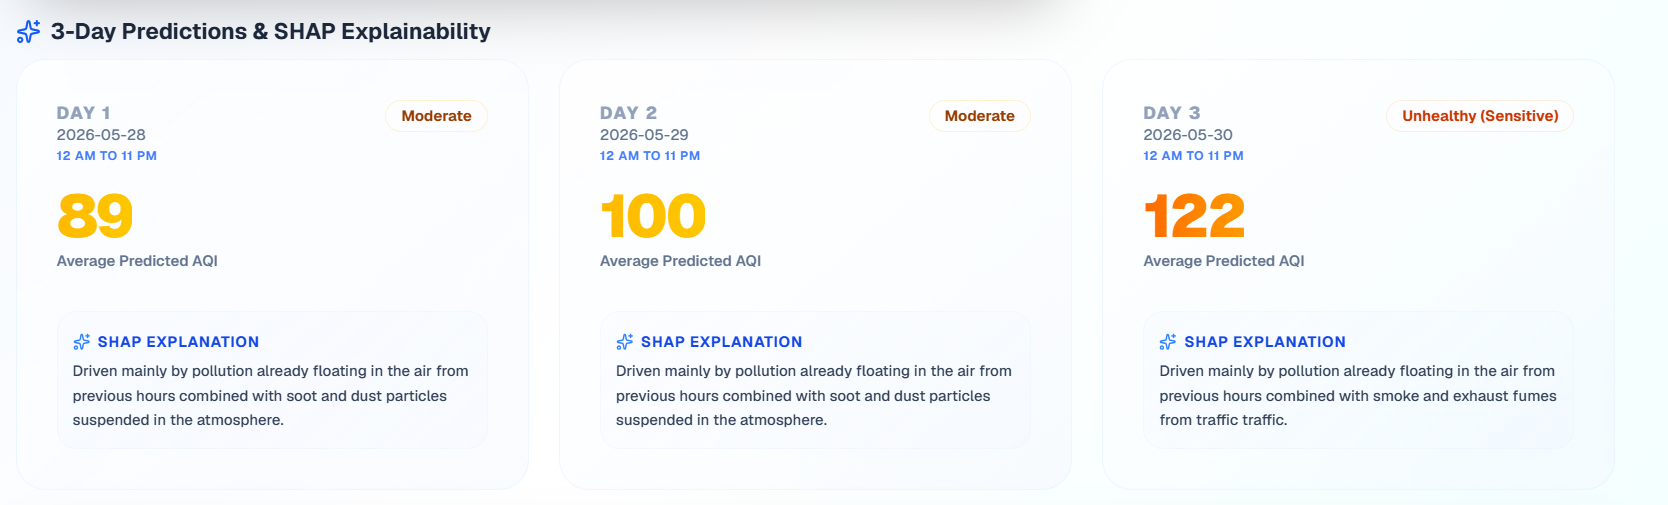
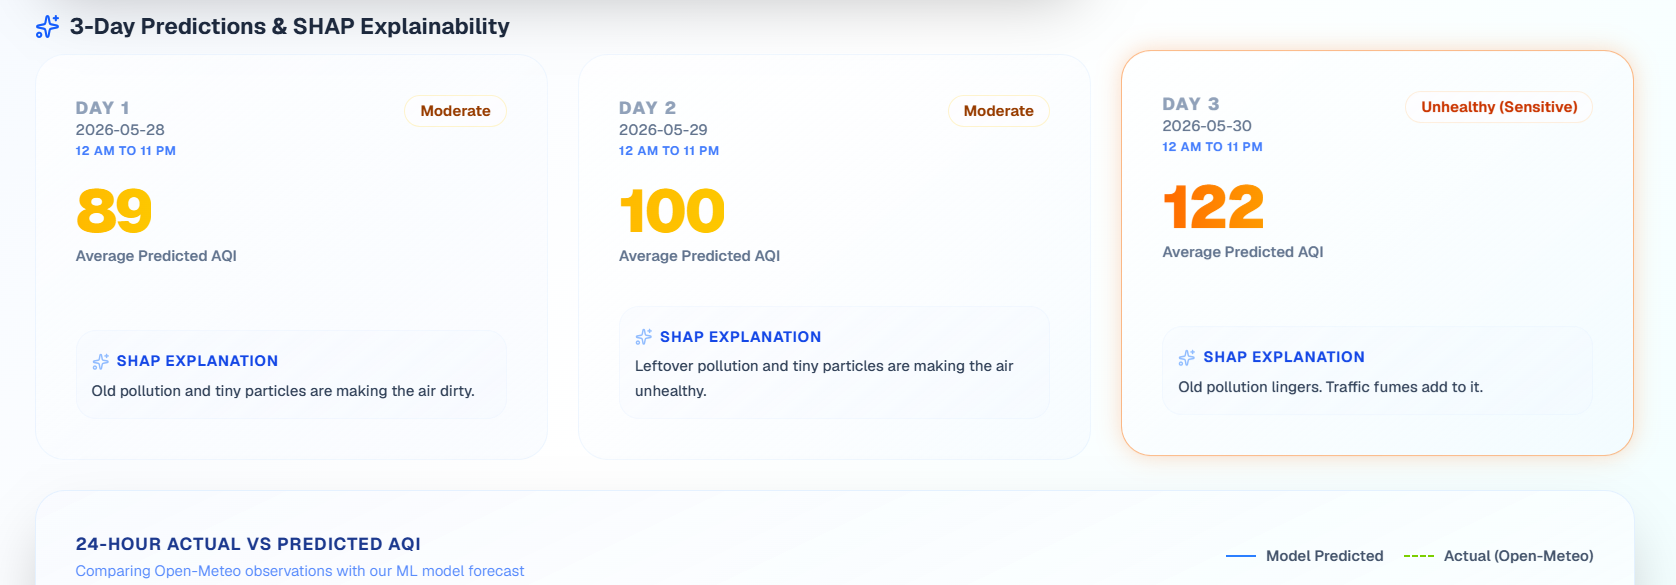
AQI-Predictor

diff --git a/README.md b/README.md
@@ -93,16 +93,16 @@ Here is a visual walk-through of the premium **AeroVibe Next.js Frontend Dashboa
         <p><i>Real-time AQI dials, weather metrics, and daily predictions.</i></p>
       </td>
       <td width="33.3%" align="center">
-        <img src="backend/dashbaord-images/Hourly%20Predictions%20Chart.png" alt="Hourly Predictions Chart" style="border-radius: 12px; border: 2px solid #818CF8;" />
-        <br />
-        <b>2. Hourly Trends Chart</b>
-        <p><i>EPA-banded 24-hour predictive line chart with tooltips.</i></p>
-      </td>
-      <td width="33.3%" align="center">
         <img src="backend/dashbaord-images/AI%20Explanations%20&amp;%20SHAP%20Insights.png" alt="AI Explanations & SHAP Insights" style="border-radius: 12px; border: 2px solid #D946EF;" />
         <br />
-        <b>3. AI SHAP Insights</b>
+        <b>2. AI SHAP Insights</b>
         <p><i>Local Shapley explanations translating variables to human language.</i></p>
+      </td>
+      <td width="33.3%" align="center">
+        <img src="backend/dashbaord-images/Hourly%20Predictions%20Chart.png" alt="Hourly Predictions Chart" style="border-radius: 12px; border: 2px solid #818CF8;" />
+        <br />
+        <b>3. Hourly Trends Chart</b>
+        <p><i>EPA-banded 24-hour predictive line chart with tooltips.</i></p>
       </td>
     </tr>
   </table>
